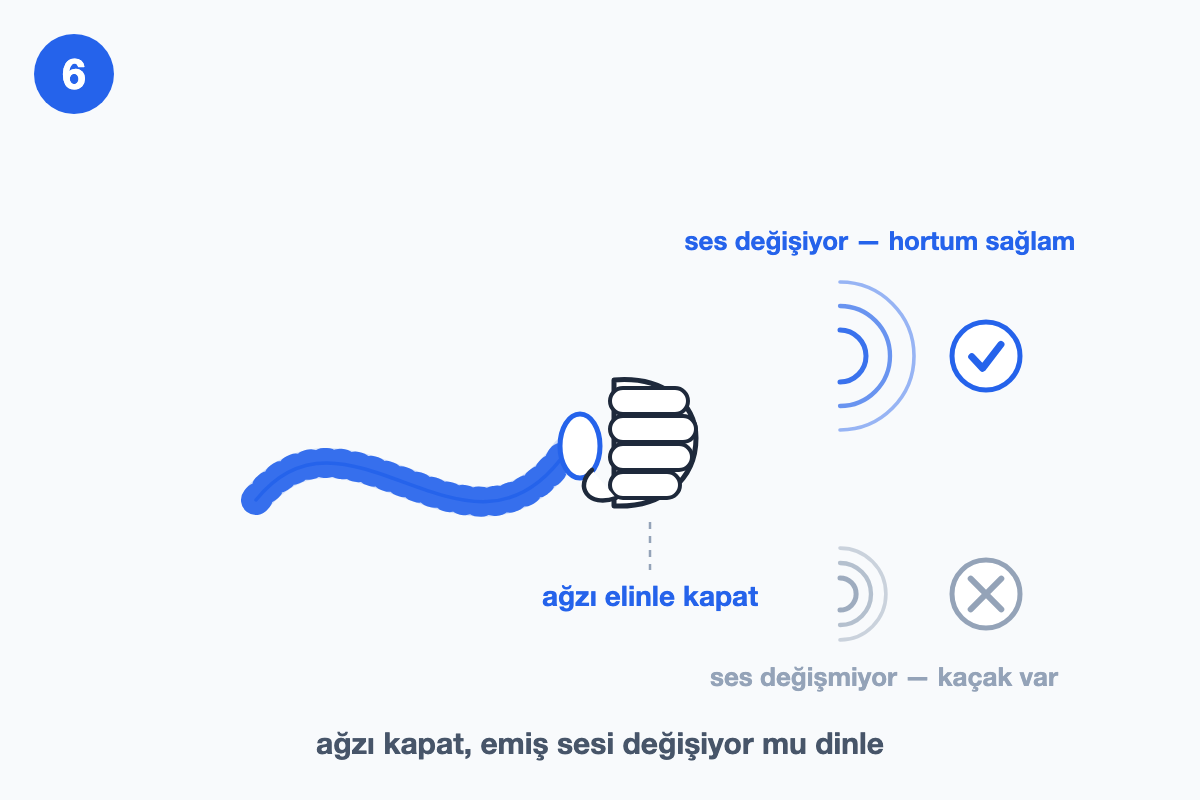
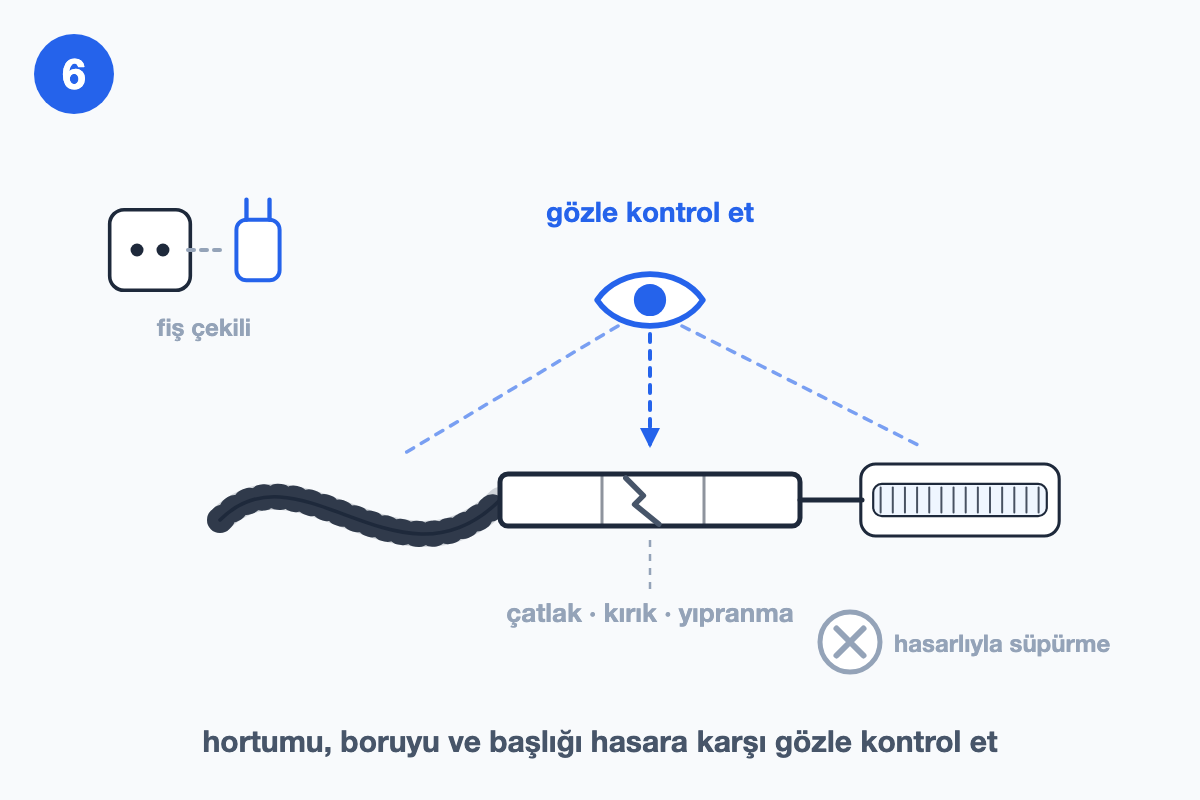
Genişletme: beyaz eşya ömrü + süpürge çekmiyor (GSC dizinsiz) + GRF kareleri (#409)
* Genişletme (GSC dizinsiz): beyaz-esya-omru-kac-yil (yasal kullanım ömrü tablosu) + supurge-cekmiyor (adım 6 kılavuza uygun)

* GRF paketi 29a: süpürge adim-06 yeni kare (png+webp) + beyaz eşya ömrü tablo infografiği (tablonun altında)

---------

diff --git a/content/blog/beyaz-esya-omru-kac-yil.md b/content/blog/beyaz-esya-omru-kac-yil.md
@@ -1,78 +1,125 @@
 ---
-title: "Beyaz eşya ömrü kaç yıl? Cihaz cihaz ortalama ömür"
-description: "Çamaşır, buzdolabı, bulaşık makinesi, fırın ve kombi ortalama kaç yıl kullanılır? Ömrü uzatan bakım ve tamir mi yenisi mi kararının pratik kuralları."
+title: "Beyaz eşya ömrü kaç yıl? Cihaz cihaz yasal kullanım ömrü"
+description: "Buzdolabı, çamaşır, bulaşık makinesi, fırın, klima, kombi: yasal kullanım ömrü kaç yıl, garanti ne kadar, yedek parça hakkın ne? Tamir mi yenisi mi?"
 slug: "beyaz-esya-omru-kac-yil"
 date: "2026-07-14"
+updated: "2026-10-29"
 category: "Genel"
 faq:
-  - q: "Beyaz eşyaların ortalama ömrü kaç yıldır?"
-    a: "Kaynaklara göre ortalama aralıklar: buzdolabı 12-18 yıl, çamaşır makinesi 10-14 yıl, bulaşık makinesi 9-12 yıl, fırın 13-15 yıl. Marka, kullanım yoğunluğu ve özellikle düzenli bakım bu süreleri ciddi şekilde aşağı-yukarı oynatır."
-  - q: "Beyaz eşyanın ömrünü ne uzatır?"
-    a: "Düzenli küçük bakımlar: çamaşır/bulaşık filtrelerinin temizliği, kireç önleme, buzdolabı kondenserinin tozunun alınması, klimada filtre yıkama, cihazı kapasitesinin üstünde zorlamamak ve voltaj dalgalanmalarına karşı koruma. Çoğu erken 'ölüm' aslında bakımsızlıktır."
-  - q: "Hangi durumda tamir yerine değişim mantıklı?"
-    a: "Yaygın pratik kural: cihaz ortalama ömrünün son çeyreğindeyse VE tamir maliyeti yeni cihaz fiyatının %40-50'sini geçiyorsa değişim düşünülür. Genç cihazda büyük arıza bile çoğu zaman tamire değer; yaşlı cihazda üst üste gelen arızalar değişim sinyalidir."
+  - q: "Beyaz eşyaların kullanım ömrü kaç yıldır?"
+    a: "Satış Sonrası Hizmetler Yönetmeliği'nin ekindeki listede buzdolabı, derin dondurucu, çamaşır makinesi, kurutma makinesi, bulaşık makinesi, fırın, ocak, mikrodalga fırın, elektrikli süpürge, klima, kombi ve televizyon için kullanım ömrü 10 yıl. Süre, cihazın sana teslim edildiği tarihten başlar. Bu, cihazın kaç yıl dayanacağı değil, üreticinin satış sonrası hizmet vermek zorunda olduğu süredir."
+  - q: "Garanti süresi ile kullanım ömrü aynı şey mi?"
+    a: "Hayır. 6502 sayılı Kanun'a göre garanti süresi teslim tarihinden başlar ve asgari iki yıldır. Kullanım ömrü daha uzundur; garanti bittikten sonra da üretici veya ithalatçı bu süre boyunca bakım ve onarım hizmeti sağlamak zorundadır."
+  - q: "Kullanım ömrü içinde yedek parça bulabilir miyim?"
+    a: "Kanun, üretici ve ithalatçıya kullanım ömrü süresince bakım ve onarım hizmeti sağlama yükümlülüğü getiriyor; yönetmelik de tüketici talep ettiğinde yedek parça satışından kaçınılamayacağını söylüyor. Hizmet sağlanmazsa Kanun tazminat talep etme hakkı tanıyor."
   - q: "Tamir mi yenisi mi kararını nasıl veririm?"
-    a: "İki veri gerekir: arızanın ne olduğu ve tahmini tamir maliyeti. Benservis'e cihazını ve belirtiyi yaz; yapay zeka olası arızayı, tahmini maliyeti ve tamir mi yenisi mi önerisini ücretsiz verir — kararı yaş + maliyet tablosuna göre bilinçli verirsin."
+    a: "Önce cihazın yaşını ve garanti ya da kullanım ömrü içinde olup olmadığını öğren, sonra arızanın ne olduğunu ve tamirin neleri kapsadığını netleştir. Benservis'e cihazını ve belirtiyi yazarak olası arızayı ve tahmini tamir maliyetini öğrenebilirsin; karar bu bilgilerle daha sağlam olur."
 images:
   coverAlt: "Üç beyaz eşya silueti ve yanında bölümlü ömür halkası çizimi"
 ---
 
-"Bu makine kaç yıl daha gider?" — servis çağırmadan önce hepimizin kafasındaki soru bu. Cevap hem cihaza hem de (çoğu kişinin sandığından çok daha fazla) **bakıma** bağlı. Bu rehberde cihaz cihaz ortalama ömürleri, ömrü gerçekten uzatan alışkanlıkları ve "tamir mi, yenisi mi" kararının pratik kurallarını topladık.
+"Bu makine kaç yıl daha gider?" Servis çağırmadan önce çoğumuzun aklındaki soru bu. Kesin cevabı yok, ama Türkiye'de sorunun **resmî bir yarısı** var: her cihaz grubu için yönetmelikle belirlenmiş bir **kullanım ömrü**. Bu rehberde o süreleri, garantiyle farkını, haklarını ve "tamir mi, yenisi mi" kararından önce sorulacak soruları topladık.
 
-> ⚡ **Kısa özet:** Buzdolabı **12-18**, çamaşır **10-14**, bulaşık **9-12**, fırın **13-15** yıl (ortalama aralıklar). Ömrü uzatan şey şans değil **bakım**. Değişim kuralı: cihaz ömrünün son çeyreğinde + tamir, yenisinin ~%40-50'sinden pahalıysa değişimi düşün; aksi hâlde tamir çoğu zaman kazanır.
+> ⚡ **Kısa özet:** Buzdolabı, çamaşır, bulaşık, kurutma makinesi, fırın, ocak, mikrodalga, süpürge, klima, kombi ve televizyon için yasal kullanım ömrü **10 yıl**; süre **teslim tarihinden** başlar. Garanti **asgari 2 yıl**. Kullanım ömrü boyunca üretici bakım ve onarım hizmeti vermek, talep edersen **yedek parça satmak** zorunda; yetkili serviste tamir **en fazla 20 iş günü** sürebilir.
 
-## Cihaz cihaz ortalama ömür
+## "Kullanım ömrü" tam olarak ne demek?
 
-Kaynakların verdiği ortalama aralıklar (yoğun kullanım ve bakımsızlık alt sınıra, düzenli bakım üst sınıra iter):
+Günlük dilde "ömür" cihazın bozulana kadar geçen süresi; hukukta anlamı farklı. Satış Sonrası Hizmetler Yönetmeliği kullanım ömrünü, malın tüketiciye **teslim tarihinden başlayan** ve yönetmeliğin ekindeki listede her mal grubu için belirlenen süre olarak tanımlıyor.
 
-| Cihaz | Ortalama ömür |
-|-------|---------------|
-| Buzdolabı | **12-18 yıl** |
-| Fırın | **13-15 yıl** |
-| Çamaşır makinesi | **10-14 yıl** |
-| Bulaşık makinesi | **9-12 yıl** |
-| Kombi | **~15 yıl** (düzenli bakımla) |
-| Klima | **10-15 yıl** |
+Yani bu süre "cihaz bu yaşta bozulur" demek değil. Üretici veya ithalatçının o cihaz için **satış sonrası bakım ve onarım hizmeti sağlamak zorunda olduğu** süre. 6502 sayılı Tüketicinin Korunması Hakkında Kanun'un 58. maddesi bu yükümlülüğü açıkça koyuyor.
 
-İki not: birincisi, bu rakamlar "bu yaşta çöpe" demek değil — 20 yaşında sorunsuz çalışan buzdolabı az değil. İkincisi, üreticinin **yedek parça bulundurma yükümlülüğü** ürünün kullanım ömrü boyunca sürer; yani yaşlı cihazın parçası çoğu zaman hâlâ bulunur.
+Gerçek dayanma süresi kullanıma ve bakıma göre değişir. Bunun için resmî bir liste bulamadığımızdan tahmini yaş aralığı vermiyoruz; yalnız yönetmelikteki süreleri aktarıyoruz.
 
-## Ömrü asıl belirleyen: bakım
+## Cihaz cihaz yasal kullanım ömrü
 
-Erken "ölen" cihazların çoğu aslında yaşlılıktan değil **bakımsızlıktan** gider. En yüksek getirili küçük alışkanlıklar:
+Aşağıdaki değerler yönetmeliğin güncel ekindeki listeden alındı:
 
-- **Çamaşır makinesi:** [tahliye filtresini 1-2 ayda bir temizle](/blog/camasir-makinesi-tahliye-filtresi-temizleme/), kireçle mücadele et, kapasite üstü yükleme yapma.
-- **Bulaşık makinesi:** filtre temizliği + tuz ve parlatıcıyı eksik etme.
-- **Buzdolabı:** yılda 1-2 kez arka kondenserin tozunu al, [doğru sıcaklığa ayarla](/blog/buzdolabi-kac-derece-olmali/), kapı contasını kontrol et.
-- **Klima:** [filtreyi ayda bir yıka](/blog/klima-filtresi-temizleme/), sezon başı bakım yaptır.
-- **Kombi:** yıllık bakım + [yazın doğru modda beklet](/blog/kombi-yazin-kapatilir-mi/).
-- **Hepsi için:** voltaj dalgalanmasına karşı önlem — özellikle [elektrik kesintilerinde fişleri çekmek](/blog/elektrik-kesintisi-sonrasi-cihaz-arizalari/) elektronik kartları korur. (Kart, modern cihazların en pahalı ölüm sebebidir.)
+| Cihaz | Kullanım ömrü | Azami tamir süresi |
+|-------|---------------|--------------------|
+| Buzdolabı | **10 yıl** | 20 iş günü |
+| Derin dondurucu | **10 yıl** | 20 iş günü |
+| Çamaşır makinesi | **10 yıl** | 20 iş günü |
+| Çamaşır kurutma makinesi | **10 yıl** | 20 iş günü |
+| Bulaşık makinesi | **10 yıl** | 20 iş günü |
+| Fırın | **10 yıl** | 20 iş günü |
+| Ocak | **10 yıl** | 20 iş günü |
+| Mikrodalga fırın | **10 yıl** | 20 iş günü |
+| Elektrikli süpürge | **10 yıl** | 20 iş günü |
+| Klima | **10 yıl** | 20 iş günü |
+| Kombi | **10 yıl** | 20 iş günü |
+| Televizyon | **10 yıl** | 20 iş günü |
 
-Bakımsızlığın faturası yalnız arıza da değil: yıpranan cihaz aynı işi daha çok elektrikle yapar — detayı [elektrik faturası neden yüksek](/blog/elektrik-faturasi-neden-yuksek/) yazısında anlattık.
+![Buzdolabı, çamaşır, bulaşık ve kurutma makinesi, fırın, klima, televizyon ve elektrikli süpürge için yasal kullanım ömrünü ve azami tamir süresini özetleyen tablo çizimi](/tamir-gorsel/beyaz-esya-omru-kac-yil/omur-tablosu.png)
 
-## Tamir mi, yenisi mi? Pratik karar kuralları
+İş günü de yönetmelikte tanımlı: ulusal, resmî ve dini bayramlar, yılbaşı, 1 Mayıs, 15 Temmuz ve pazar günleri sayılmıyor. Azami tamir süresi, garanti içindeyse arızayı yetkili servise veya satıcıya **bildirdiğin** tarihten, garanti dışındaysa cihazı yetkili servise **teslim ettiğin** tarihten başlar.
 
-1. **Yaş kuralı:** Cihaz ortalama ömrünün ilk yarısındaysa, büyük arızada bile tamir genelde kazanır. Son çeyrekteyse (ör. 12 yaşındaki bulaşık makinesi) büyük tamire para gömmeden önce iki kez düşün.
-2. **%40-50 kuralı:** Yaygın pratik eşik — tamir maliyeti, aynı segmentte yeni cihaz fiyatının %40-50'sini aşıyorsa VE cihaz yaşlıysa, değişim ekonomik olarak öne geçer.
-3. **Tekrarlayan arıza kuralı:** Aynı cihazda kısa aralıklarla üst üste farklı arızalar çıkıyorsa, bu genel yıpranma sinyalidir; tek seferlik büyük arızadan daha güçlü bir değişim gerekçesidir.
-4. **Enerji sınıfı faktörü:** Çok eski, düşük verimli bir cihazda değişim, elektrik tasarrufuyla kendini kısmen amorti edebilir — ama bu hesap ancak gerçek tüketim farkıyla yapılmalı, satış sloganıyla değil.
-5. **Çevre notu:** Onarılabilir cihazı erken emekli etmek [e-atık](/blog/e-atik-nedir-cihaz-onarim-cevre/) demek; [AB'nin yeni onarım hakkı kuralları](/blog/ab-onarim-hakki-yururlukte/) da tam bu yüzden tamiri varsayılan seçenek yapmaya çalışıyor.
+## Garanti ile kullanım ömrü arasındaki fark
 
-Bu kuralların hepsi iki veriye dayanıyor: **arıza ne ve tamiri kaça mal olur?** Cihaz cihaz güncel tamir fiyat aralıkları için: [çamaşır](/blog/camasir-makinesi-tamiri-kac-para/) · [buzdolabı](/blog/buzdolabi-tamiri-kac-para/) · [bulaşık](/blog/bulasik-makinesi-tamiri-kac-para/) · [kombi](/blog/kombi-tamiri-kac-para/).
+**Garanti** daha kısa ve daha kapsamlı bir güvence. 6502 sayılı Kanun'un 56. maddesine göre garanti süresi malın teslim tarihinden başlar ve **asgari iki yıldır**. Satıcı ya da üretici bunun üstüne ayrıca bir taahhüt verebilir; Kanun buna **ihtiyari garanti** diyor ve taahhüt edilen hakların kullanılması için senden masraf istenemeyeceğini söylüyor.
 
-## Kararı 30 saniyede bilgiyle ver
+Garanti süresi içinde, kullanım kılavuzuna aykırı kullanım dışındaki durumlarda yetkili servis senden **nakliye, kargo veya servis elemanının ulaşım gideri** gibi bir ücret isteyemez. Arıza, cihazın yetkili servise veya satıcıya tesliminden itibaren **on iş günü** içinde giderilemezse, tamir bitene kadar benzer özellikte başka bir cihazın kullanımına verilmesi gerekir; istemezsen bu yükümlülük kalkar.
 
-[Benservis'e](/) cihazını, yaşını ve belirtiyi yaz ("8 yaşında çamaşır makinesi, sıkma yapmıyor" gibi); yapay zeka olası arızayı, **tahmini tamir maliyetini** ve **tamir mi yenisi mi** önerisini ücretsiz söylesin. Önce öğren, sonra karar ver.
+**Kullanım ömrü** ise garanti bittikten sonra da devam eder. Bu dönemde tamir artık ücretli olabilir, ama hizmetin **verilmesi** zorunludur.
+
+## Kullanım ömrü boyunca hakların
+
+Garanti dışında kalan yıllarda bile şu kurallar geçerli:
+
+- **Bakım ve onarım hizmeti:** Üretici veya ithalatçı, kullanım ömrü süresince bakım ve onarım hizmeti sağlamak zorunda.
+- **Yedek parça:** Üretici veya ithalatçılar, tüketicinin talebi üzerine yedek parça satışından kaçınamaz. Ayrıntıları [yedek parça bulundurma zorunluluğu](/blog/yedek-parca-bulundurma-zorunlulugu/) yazısında anlattık.
+- **Parça listesi:** Servis, yedek parça listesini görebileceğin bir yere asmak ya da katalog veya elektronik ortamda göstermek zorunda.
+- **Değişen parça:** Yetkili servis, değiştirdiği parçayı garanti süresi dışında sana iade etmek zorunda.
+- **Tekrarlayan arıza:** Garanti dışında yapılan onarımdan sonra **bir yıl içinde aynı arıza** tekrar ederse, kullanım kılavuzuna aykırı kullanım dışında senden hiçbir isim altında ücret istenemez.
+- **Değişen parçaya garanti:** Garanti dışında değiştirilen ya da satılan parça için **altı aydan az olmamak üzere** garanti verilir.
+- **Tazminat:** Garanti bittikten sonra kullanım ömrü içinde satış sonrası hizmet sağlanmazsa Kanun, zararın tazminini talep etme hakkı tanıyor.
+
+Servis, cihazı teslim alırken bir belge, işi bitirince **servis fişi** vermek zorunda. İkisini de sakla.
+
+## Ömrü uzatan şey: düzenli bakım
+
+Bakım aralıklarını kendi cihazının kullanım kılavuzundan kontrol et:
+
+- **Çamaşır makinesi:** [tahliye filtresini temizle](/blog/camasir-makinesi-tahliye-filtresi-temizleme/), kapasitenin üstünde yükleme yapma.
+- **Kurutma makinesi:** [filtre ve kondenser temizliğini](/blog/kurutma-makinesi-filtre-ve-kondenser-temizligi/) aksatma.
+- **Bulaşık makinesi:** filtreyi temizle, tuz ve parlatıcıyı eksik bırakma.
+- **Buzdolabı:** [doğru sıcaklığa ayarla](/blog/buzdolabi-kac-derece-olmali/), kapı contasını kontrol et.
+- **Klima:** [filtreyi düzenli yıka](/blog/klima-filtresi-temizleme/).
+- **Kombi:** [yazın doğru modda beklet](/blog/kombi-yazin-kapatilir-mi/).
+
+İlgili: [elektrik kesintisi sonrası arızalar](/blog/elektrik-kesintisi-sonrasi-cihaz-arizalari/) · [elektrik faturası neden yüksek](/blog/elektrik-faturasi-neden-yuksek/).
+
+## Cihaz yorulmaya mı başladı? Dikkat edilecek işaretler
+
+Kesin bir ölçü yok; yine de şu durumlar kararı ciddi düşünmeyi gerektirir:
+
+- Kısa aralıklarla **farklı farklı arızalar** çıkıyor.
+- Tamir edilen arıza **yeniden** ortaya çıkıyor.
+- Cihaz eskisi gibi iş görmüyor: çamaşır tam sıkılmıyor, bulaşık temiz çıkmıyor, dolap soğutmakta zorlanıyor.
+- Cihaz **kullanım ömrünü geçmiş**; bu durumda yasal servis güvencesi artık yok, parça ve hizmet için servise önceden sormak gerekir.
+
+## Tamir mi, yenisi mi? Önce bu soruları sor
+
+1. **Cihaz kaç yaşında?** Teslim tarihine bak: garanti içinde mi, kullanım ömrü içinde mi?
+2. **Arıza tam olarak ne?** Tek bir parça mı, yoksa birden fazla sistem mi etkilenmiş? Servisten yazılı açıklama iste.
+3. **Parça bulunuyor mu, tamir ne kadar sürer?** Kullanım ömrü içindeyse yetkili serviste azami süre 20 iş günü.
+4. **Bu arıza daha önce tamir edildi mi?** Son bir yıl içinde aynı arıza için garanti dışı onarım yapıldıysa ücret istenemez; servis fişine bak.
+5. **Değişen parçanın garantisi ne olacak?** Asgari altı ay; süreyi fişe yazdır.
+6. **Enerji tüketimi ne durumda?** Karar verirken yeni cihazın enerji etiketindeki tüketimle mevcut cihazınkini karşılaştır; reklam söylemine değil, etiketteki değere bak.
+7. **Çevreye etkisi ne?** Onarılabilir bir cihazı erken atmak [e-atık](/blog/e-atik-nedir-cihaz-onarim-cevre/) demek. Konunun Avrupa tarafını [AB onarım hakkı](/blog/ab-onarim-hakki-yururlukte/) yazısında, ayrıca [onarım hakkı nedir](/blog/onarim-hakki-nedir/) yazısında anlattık.
+
+Tamir maliyetinin cihaz cihaz nasıl oluştuğunu görmek için: [çamaşır](/blog/camasir-makinesi-tamiri-kac-para/) · [buzdolabı](/blog/buzdolabi-tamiri-kac-para/) · [bulaşık](/blog/bulasik-makinesi-tamiri-kac-para/) · [fırın](/blog/firin-tamiri-kac-para/) · [kombi](/blog/kombi-tamiri-kac-para/). Buzdolabı için ayrıca: [eski buzdolabını değiştirmek mantıklı mı](/blog/eski-buzdolabini-degistirmek-mantikli-mi/).
+
+## Kararı bilgiyle ver
+
+[Benservis'e](/) cihazını, yaşını ve belirtiyi yaz ("8 yaşında çamaşır makinesi, sıkma yapmıyor" gibi); yapay zeka olası arızayı ve tahmini tamir maliyetini söylesin. Önce öğren, sonra karar ver.
 
 ## Sık sorulan sorular
 
-**Ortalama ömürler?**
-Buzdolabı 12-18, çamaşır 10-14, bulaşık 9-12, fırın 13-15 yıl.
+**Beyaz eşyanın yasal kullanım ömrü kaç yıl?**
+Listedeki beyaz eşyalar, klima, kombi ve televizyon için 10 yıl; teslim tarihinden başlar.
 
-**Ömrü ne uzatır?**
-Filtre/kireç/toz bakımları + aşırı yüklememe + voltaj koruması.
+**Garanti kaç yıl?**
+Asgari iki yıl; teslim tarihinden başlar.
 
-**Ne zaman değişim?**
-Ömrün son çeyreği + tamir > yeninin %40-50'si + tekrarlayan arızalar.
-
-**Kararı nasıl veririm?**
-Belirtiyi Benservis'e yaz — arıza + tahmini maliyet + öneri, ücretsiz.
+**Ömür dolunca cihaz atılmalı mı?**
+Hayır. Kullanım ömrü bir hizmet yükümlülüğü süresi; çalışan ve bakımlı cihaz kullanılmaya devam edebilir.

diff --git a/content/blog/supurge-cekmiyor.md b/content/blog/supurge-cekmiyor.md
@@ -3,29 +3,30 @@ title: "Süpürge çekmiyor / emişi zayıf: nedenleri ve çözüm"
 description: "Süpürgen çekmiyor ya da emişi mi zayıfladı? Dolu hazne, tıkalı filtre, tıkanan hortum, aşınmış fırça ve motor nedenleri + kendin kontroller."
 slug: "supurge-cekmiyor"
 date: "2026-07-06"
+updated: "2026-10-29"
 category: "Süpürge"
 guide:
   difficulty: "Kolay"
   time: "~15 dakika"
   totalTime: "PT15M"
   cost: "Ücretsiz"
-  tools: ["Makas", "Uzun ve yumuşak bir çubuk", "Kuru bez"]
+  tools: ["Makas"]
 steps:
-  - "Süpürgeyi kapat ve fişini çek; şarjlı modelde bataryayı ayır."
-  - "Toz haznesini boşalt; torbalı modelde torbayı değiştir."
-  - "Filtreleri çıkarıp tozunu al; yıkanabilir olanları suyla yıka ve tamamen kuruyana kadar bekletip öyle tak."
-  - "Hortumu ve boruyu çıkarıp ışığa tut; tıkanıklık varsa uzun ve yumuşak bir çubukla ilerlet."
-  - "Başlık fırçasına dolanan saç ve ipliği makasla kesip al; fırçanın serbest döndüğünü elinle çevirerek kontrol et."
-  - "Hortumu elinle kapatıp emiş sesinin değişip değişmediğine bak; ses değişmiyorsa hortumda kaçak vardır."
+  - "Süpürgeyi kapat ve fişini çek; şarjlı modelde şarj adaptöründen ve elektrik beslemesinden ayır."
+  - "Toz haznesini boşalt; torbalı modelde dolu torbayı değiştir."
+  - "Filtreleri çıkarıp kılavuzun dediği gibi temizle; yıkanabilir olanları yıkadıysan tamamen kuruyana kadar takma."
+  - "Boruyu ve hortumu çıkarıp içine bak; başlıktan cihaza kadar hava yolunda tıkanıklık varsa gider."
+  - "Başlık fırçasına dolanan saç ve ipliği çıkar; çıkmayanı makasla kes, fırçada sıkışan bir şey kalmasın."
+  - "Hortum, boru ve başlığı çatlak, kırık ve yıpranmaya karşı gözle kontrol et; hasarlı parçayla süpürme."
 faq:
   - q: "Süpürge neden çekmez ya da emişi zayıflar?"
-    a: "En sık sebep hava akışının tıkanmasıdır: dolu hazne/torba, kirli filtre, hortum veya borudaki tıkanıklık. Ayrıca aşınmış fırça, hasarlı hortum (delik/kaçak) ve zayıflayan motor da emişi düşürür. Çoğu sebep evde ücretsiz çözülür."
+    a: "Üretici kılavuzlarının sorun giderme tablolarında en sık sebepler aynı: dolu hazne ya da torba, kirli filtre, başlıkta, boruda veya hortumda tıkanıklık ve rulo fırçaya sıkışan kir. Torbalı modellerde güç ayarının düşük kalması da emişi azaltır."
   - q: "Süpürgenin emişi nasıl güçlendirilir?"
-    a: "Hazneyi/torbayı boşalt, filtreleri çıkarıp temizle (yıkanabilir filtreleri suyla yıka, tamamen kurut), hortum ve boruyu tıkanıklığa karşı kontrol et, başlık fırçasındaki saç/tüyü temizle. Bu adımlar emişin büyük kısmını geri getirir."
+    a: "Hazneyi boşalt ya da torbayı değiştir, filtreleri kılavuzun tarif ettiği yöntemle temizle, başlıktan cihaza kadar hava yolunu kontrol et, rulo fırçadaki saç ve ipliği temizle. Güç ayarı olan modelde ayarı en yüksek emişe getir."
   - q: "Filtreyi ıslak takarsam ne olur?"
-    a: "Yıkanabilir filtreyi tam kurumadan takmak kötü koku, küf ve motor arızasına yol açabilir. Filtreyi yıkadıktan sonra en az 24 saat, tamamen kuruyana kadar beklet, öyle tak."
+    a: "Kılavuzlar yıkanan filtrenin kuruduktan sonra takılmasını ister; örneğin Samsung VS7000 kılavuzu yıkanan filtreyi 24 saatten uzun süre gölgede kurutmayı ve ısı uygulamamayı söyler. Her filtre yıkanmaz: bazı kılavuzlar filtrenin sıvıyla hiç temas etmemesini ister."
   - q: "Her şeyi temizledim ama hâlâ çekmiyor?"
-    a: "Hazne, filtre, hortum ve fırça temiz olduğu hâlde emiş yoksa sorun motorda ya da elektrik/anahtar tarafında olabilir. Bu bir servis işidir; kesin tahmini Benservis'ten al."
+    a: "Hazne, filtre, hava yolu ve fırça temiz olduğu hâlde emiş yoksa sorun motorda ya da elektrik tarafında olabilir. Kılavuzlar onarımı yalnız eğitimli uzman personele bırakır; bu bir servis işidir. Kesin tahmini Benservis'ten al."
 images:
   coverAlt: "Elektrikli süpürge ve zemindeki ağızlığa doğru giden kesik çizgili zayıf emiş okları"
   steps:
@@ -34,73 +35,93 @@ images:
     - "Çıkarılan filtrenin suyla yıkanışı ve kuruması için bekletilişini gösteren çizim"
     - "Çıkarılan hortumun ışığa tutulup içindeki tıkanıklığın görülüşünü gösteren çizim"
     - "Başlık fırçasına dolanan saç ve ipliğin makasla kesilişini gösteren çizim"
-    - "Hortum ağzının elle kapatılıp emiş sesinin dinlenişini gösteren kaçak testi çizimi"
+    - "Fişi çekili süpürgenin hortum ve borusunun çatlak ve kırığa karşı gözle incelenişini gösteren çizim"
 ---
 
-Süpürgeni çalıştırıyorsun ama **çekmiyor ya da emişi eskisi gibi güçlü değil.** İyi haber: emiş sorunlarının çoğu bir arıza değil, **tıkanmış hava akışıdır** ve evde dakikalar içinde çözülür. Bu yazıda nedenleri, adım adım çözümü ve gerçekten servis gereken durumları anlatıyoruz.
+Süpürgeni çalıştırıyorsun ama **çekmiyor ya da emişi eskisi gibi güçlü değil.** İyi haber: üreticilerin kendi sorun giderme tablolarına bakınca, emiş kaybının en sık sebeplerinin bir arıza değil **tıkanmış hava yolu** olduğu görülüyor: dolu hazne, kirli filtre, tıkalı boru ya da fırça. Bu yazıda nedenleri, adım adım kontrolü ve gerçekten servis gereken durumları anlatıyoruz.
 
 > ⚠ **Bu belirtinin arkasında uzmanlık gerektiren bir iş olabilir.**
 >
-> Aşağıdaki kontrollerin hepsi **ücretsiz** ve tamamen senin alanında. Ama sıra **motora ya da fırça rulosunun miline**
-> geldiğinde iş servise aittir: gövde içi hem elektrik hem dönen parça barındırır. Bu yazıda **parça değişimi tarif etmiyoruz** ve
-> tarif eden kaynaklara da yönlendirmiyoruz.
+> Aşağıdaki kontrollerin hepsi **ücretsiz** ve tamamen senin alanında. Ama sıra **motora, elektrik aksamına ya da aküye**
+> geldiğinde iş servise aittir. Bosch kılavuzunun ifadesiyle: "Sadece bunun eğitimini almış uzman personel cihazda onarımlar
+> yapabilir." Bu yazıda **gövde açmayı ve parça değişimini tarif etmiyoruz.**
 
-**Marka fark etmez:** Arçelik, Fakir, Bosch, Philips, Dyson, Samsung gibi torbalı, toz hazneli (bagless) ve dikey/şarjlı süpürgelerde nedenler benzerdir.
+Bu yazıdaki her adım, Bosch, Samsung ve Fakir'in Türkçe kullanım kılavuzlarındaki sorun giderme ve bakım bölümlerine dayanıyor. Modelin farklıysa önce **kendi kılavuzunun** "Arızaları giderme" ya da "Sorun giderme" tablosuna bak; filtre ve fırça ayrıntıları modele göre değişir.
 
 ## Süpürge neden çekmez? Olası nedenler
 
-**1. Dolu hazne / torba (en sık).** Hazne ya da torba dolduğunda hava geçişi tıkanır, emiş düşer.
+**1. Dolu hazne ya da torba.** Bosch'un torbalı süpürge kılavuzu "Emme gücünde azalma var" belirtisinin ilk nedeni olarak dolu torbayı yazar. Samsung kılavuzu da hazne doluysa boşaltmayı ister.
 
-**2. Kirli filtre.** Toz ve tüyle dolan filtre hava akışını boğar. Emiş zayıflamasının en yaygın gizli sebebi budur.
+**2. Kirli ya da yanlış takılmış filtre.** Üç kılavuz da kirli filtreyi emiş kaybı nedeni olarak sayar. Samsung kılavuzu ayrıca filtre düzgün takılmazsa tozun motora girebileceğini ve emişin azalabileceğini belirtir.
 
-**3. Tıkalı hortum veya boru.** İçeri kaçan bir bez, kâğıt ya da tüy yumağı hortumu tıkar.
+**3. Başlıkta, boruda ya da hortumda tıkanıklık.** Fakir kılavuzu, tüpe sıkışan kâğıt ya da peluş elyafı ayrı bir neden olarak yazar.
 
-**4. Aşınmış / dolanmış başlık fırçası.** Fırçaya saç, iplik dolanınca yerden çekiş düşer.
+**4. Rulo fırçaya dolanan saç ve kir.** Fırçaya bir şey sarıldığında yerden çekiş düşer; bazı şarjlı modeller bu durumda fırçayı durdurur.
 
-**5. Hasarlı hortum (hava kaçağı).** Hortumda delik/çatlak varsa vakum kaçar, emiş zayıflar.
+**5. Hasarlı ya da yıpranmış parça.** Kılavuzlar hortum, boru ve başlıkların yıpranmaya karşı düzenli kontrol edilmesini, yıpranmış başlıkların değiştirilmesini ister.
 
-**6. Motor zayıflaması.** Yukarıdakiler sağlamsa ve emiş yoksa motor ya da elektrik tarafı olabilir.
+**6. Motor ya da elektrik tarafı.** Yukarıdakiler sağlamsa ve emiş hâlâ yoksa sorun gövdenin içindedir; bu servis işidir.
 
 ## Adım adım: emişi geri getiren 6 ücretsiz kontrol
 
-Altı adımın hiçbiri cihazı sökmeyi ya da alet kullanmayı gerektirmez. Süpürgenin başında geçen süre 15 dakika; tek beklemeli iş yıkanan filtrenin kuruması.
+Altı adımın hiçbiri gövdeyi açmayı gerektirmez. Tek beklemeli iş, yıkanan filtrenin kuruması.
 
-**1. Süpürgeyi kapat ve fişini çek.** Şarjlı ya da dikey modelde bataryayı ayır. Fırçaya elini sokacaksın — motorun çalışma ihtimali kalmasın.
+**1. Süpürgeyi kapat ve elektrikten ayır.** Kablolu modelde fişi çek; Bosch'un torbalı süpürge kılavuzu süpürmeye ara verildiğinde bile cihazın kapatılıp fişinin çekilmesini ister. Şarjlı modelde Bosch kılavuzu cihazı kapatıp elektrik beslemesinden ayırmayı, Fakir kılavuzu bakımdan önce şarj adaptörünü cihazdan ayırmayı söyler. Fırçaya elini sokacaksın; cihazın çalışma ihtimali kalmasın.
 
-**2. Hazneyi ya da torbayı boşalt.** Toz haznesini boşalt; torbalı modelde torbayı değiştir. Hazne yarıdan fazla doluysa emiş zaten düşer — bu adım tek başına çoğu vakayı çözer.
+**2. Hazneyi ya da torbayı boşalt.** Toz hazneli modelde hazneyi boşalt. Fakir kılavuzu hazneyi her kullanımdan sonra boşaltmayı önerir ve maksimum emişe "temiz bir filtre ve boş bir hazne ile" ulaşıldığını yazar. Torbalı modelde torba doluysa değiştir; Bosch'un torbalı modelinde bunun için bir toz torbası değişim göstergesi bulunur. Bosch kılavuzu cihazın **torbasız çalıştırılmamasını** da ayrıca uyarır.
 
-**3. Filtreleri temizle.** Filtreleri çıkar, tozunu al. Yıkanabilir olanları suyla yıka ama **tamamen kuruyana kadar takma** — filtre için en az 24 saat beklemek gerekir. Nemli takılan filtre koku, küf ve motor arızası üretir; bu adımı aceleye getirme.
+**3. Filtreleri temizle.** Filtreleri çıkar ve kılavuzun tarif ettiği yöntemle temizle. Burada modeller arasında fark büyüktür: Samsung VS7000 kılavuzu yıkanabilir mikro filtreyi ayda bir suyla temizlemeyi ve kullanmadan önce **24 saatten uzun süre gölgede** kurutmayı söyler. Bosch'un şarjlı Unlimited kılavuzu ise filtre için "kesinlikle sıvıyla temas etmemelidir" der. Filtreyi takmadan önce tamamen kuruduğundan emin ol ve doğru yerine oturt.
 
-**4. Hortumu ve boruyu kontrol et.** İkisini de çıkar, bir uçtan ışığa tut. İçeriden ışık görünmüyorsa tıkanıklık vardır: uzun ve **yumuşak** bir çubukla yavaşça ilerlet, iç yüzeyi çizecek sert bir şey kullanma.
+**4. Boruyu ve hortumu kontrol et.** Boruyu cihazdan ve başlıktan ayır, içine bak. Bosch kılavuzu hava kanalının "başlıktan cihaza kadar" tıkalı olup olmadığını kontrol etmeyi, torbalı modelde de cihazı söküp tıkanmayı gidermeyi söyler. Fakir kılavuzu teleskopik tüpü çıkarıp emme noktasındaki tozu temizlemeyi tarif eder.
 
-**5. Başlık fırçasını temizle.** Fırça rulosuna dolanan saç ve ipliği makasla kes ve çek al. Sonra fırçayı elinle çevir — **serbest dönmeli**. Zor dönüyorsa dolanma sürüyordur.
+**5. Başlık fırçasını temizle.** Rulo fırçaya dolanan saç ve ipliği çıkar. Samsung kılavuzu yabancı madde elle çıkmazsa makas kullanmayı söyler. Fakir kılavuzu her süpürmeden sonra dönen fırçada kir sıkışıp kalmadığını kontrol etmeyi önerir. Bosch kılavuzu başlığın rulo fırça takılmadan kullanılmamasını ister; temizledikten sonra fırçayı yerine tak.
 
-**6. Hava kaçağı testi yap.** Süpürgeyi çalıştır ve hortumun ağzını elinle kapat. Emiş sesi belirgin biçimde değişmeli ve motor zorlanmalı. **Ses hiç değişmiyorsa** hortumda delik ya da çatlak vardır; hortum değişmelidir.
+**6. Hasar kontrolü yap.** Hortum, boru ve başlığı çatlak, kırık ve yıpranmaya karşı gözle incele. Bosch kılavuzu hasarlı parçaların değiştirilmesini, yüzeyi çatlamış ya da kırık bir cihazın kullanılmamasını ister. Hasarlı parçayı bantla onarmaya çalışma; yerine orijinal parça iste.
+
+## Güç ayarını kontrol et
+
+Bazen sorun arıza değil ayardır. Bosch'un torbalı süpürge kılavuzu "süpürme gücü çok azdır" belirtisi için çözüm olarak güç ayarlayıcısını azami emiş gücüne çevirmeyi yazar. Tersi de olabilir: Samsung kılavuzu fırça halı ya da yatak takımı gibi yumuşak bir yüzeye takılıp düzgün dönmüyorsa emiş gücünü düşük ya da orta moda almayı önerir.
+
+## Şarjlı modelde batarya ve koruma kapanması
+
+Şarjlı süpürgede "çekmiyor" şikâyetinin bir kısmı akü ya da koruma devresidir:
+
+- **Şarj:** Samsung kılavuzu süpürge çalışmıyorsa önce pil düzeyini kontrol edip şarj etmeyi söyler. Bosch kılavuzu akünün doğru takılmamasını ya da şarjsız olmasını ayrı nedenler olarak yazar ve akünün yalnızca orijinal hızlı şarj cihazıyla şarj edilmesini ister.
+- **Tıkanınca kapanma:** Fakir kılavuzuna göre bir modelde turbo modda emiş ağzı ya da boru tıkanırsa cihaz kendini korumak için 5 saniye sonra kapanır. Samsung kılavuzu da dolu hazne ya da tıkalı fırça ile çalışırken motorun aşırı ısınma korumasının devreye girebileceğini, sorun giderildikten sonra ürünü yeniden açmayı yazar.
+- **Sıcaklık:** Bosch kılavuzu akünün aşırı ısınması ya da soğuması durumunda oda sıcaklığına gelmesini beklemeyi, cihaz soğuduktan sonra tekrar açmayı söyler.
+
+Akü düzenli olarak hızla bitiyorsa [şarjlı süpürge şarj tutmuyor](/blog/sarjli-supurge-sarj-tutmuyor/) rehberine bak. Akü kesinlikle açılmamalıdır; Bosch kılavuzu bunu açıkça yazar.
+
+## Ne yapmamalısın?
+
+- **Emiş ağzını elinle kapatma.** Samsung kılavuzu "Emiş ya da çıkış ağzını tıkamayın" der; Fakir kılavuzu çalışırken elin yer fırçasının emiş ağzına konmamasını ister.
+- **Filtresiz çalıştırma.** Bosch kılavuzları cihazın filtre ünitesi, motor koruma filtresi ya da torba olmadan çalıştırılmamasını ister.
+- **Isıyla kurutma.** Samsung kılavuzu ısı uygulandığında parçanın şeklinin bozulabileceğini belirtir; gölgede kurut.
 
 ## Ne zaman servis çağırmalısın?
 
-- Hazne, filtre, hortum ve fırça temiz olduğu hâlde **emiş hâlâ yoksa** (motor şüphesi)
-- **Yanık kokusu, aşırı ısınma** ya da motordan anormal ses varsa
-- Süpürge **hiç çalışmıyorsa** (kablo/anahtar/motor)
+- Hazne, filtre, hava yolu ve fırça temiz, güç ayarı en yüksekte olduğu hâlde **emiş hâlâ yoksa**
+- **Kablo ya da gövde hasarlıysa**: Bosch kılavuzu arızalı cihazda fişin derhal çekilmesini ve müşteri hizmetlerinin aranmasını ister
+- Süpürge **hiç çalışmıyorsa**: önce [süpürge çalışmıyor](/blog/supurge-calismiyor/) rehberindeki kontrollere bak
 
-> 💡 Not: Ekonomik bir süpürgede motor arızası çıkarsa, tamir bedeli yeni cihaza yaklaşabilir. Tahmini maliyeti görüp "tamir mi, yenisi mi" kararını ver.
+Bosch kılavuzu, cihazın piyasaya sunulmasından sonra 10 yıla kadar müşteri hizmetleri aracılığıyla orijinal yedek parça temin edilebildiğini yazar.
 
 ## Tahmini maliyet
 
-Temizlik ücretsizdir; filtre/hortum gibi parçalar uygundur. Motor/elektrik arızasında kesin tahmini cihazına göre [Benservis'ten](/) ücretsiz al.
+Yukarıdaki kontroller ücretsizdir. Motor ya da elektrik arızasında kesin tahmini cihazına göre [Benservis'ten](/) ücretsiz al.
 
-İlgili: [Bilgi Merkezi](/blog/) · [İyi servisi nasıl seçersin](/blog/serbis-yetkili-servis-sorgulama/)
+İlgili: [Süpürge hortumu tıkandı](/blog/supurge-hortumu-tikandi/) · [Bosch şarjlı süpürge çekmiyor](/blog/bosch-sarjli-supurge-cekmiyor/) · [Bilgi Merkezi](/blog/) · [İyi servisi nasıl seçersin](/blog/serbis-yetkili-servis-sorgulama/)
 
 ## Sık sorulan sorular
 
 **Neden çekmez / emiş zayıf?**
-Genelde dolu hazne, kirli filtre ya da tıkalı hortum; ayrıca aşınmış fırça, hava kaçağı, motor.
+Kılavuzlara göre en sık: dolu hazne ya da torba, kirli filtre, tıkalı hava yolu, kirli rulo fırça.
 
 **Emiş nasıl güçlenir?**
-Hazne boşalt, filtre temizle+kurut, hortum/boru tıkanıklığı, fırça temizliği.
+Hazneyi boşalt, filtreyi kılavuza göre temizle, hava yolunu ve fırçayı kontrol et, güç ayarını yükselt.
 
 **Filtreyi ıslak takarsam?**
-Koku, küf ve motor arızası riski — 24 saat kurut, öyle tak.
+Takma. Yıkanabilir filtreyi tamamen kurut; bazı filtreler hiç yıkanmaz, kılavuzuna bak.
 
 **Her şey temiz ama çekmiyorsa?**
-Motor ya da elektrik/anahtar arızası olabilir; servis işidir.
+Motor ya da elektrik tarafı olabilir; servis işidir.
